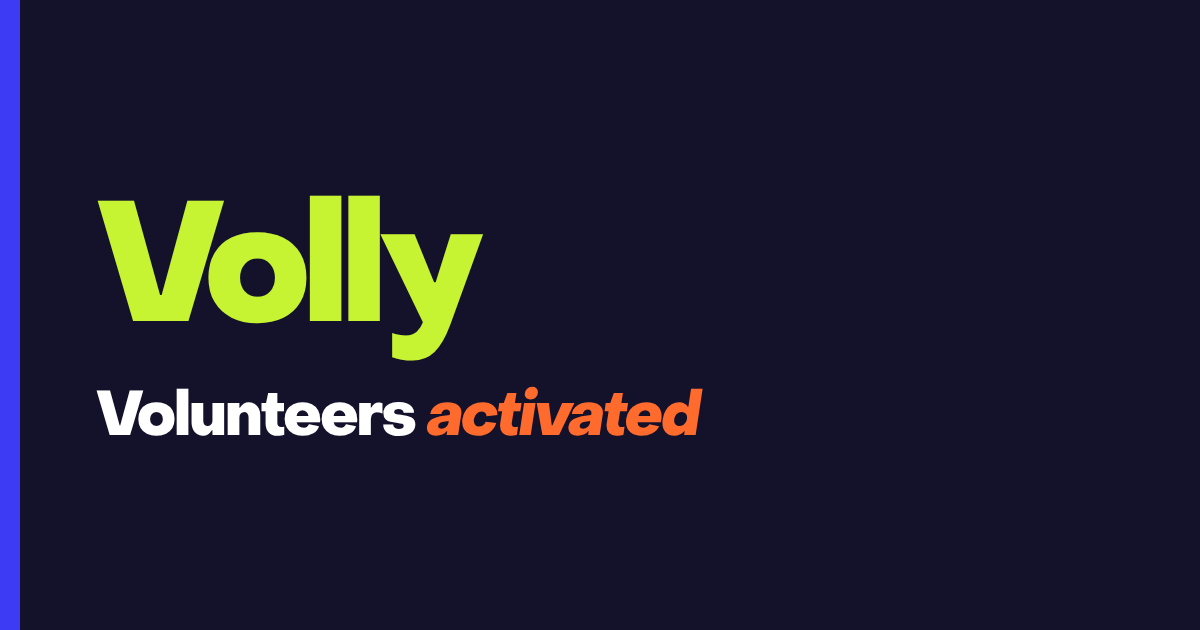
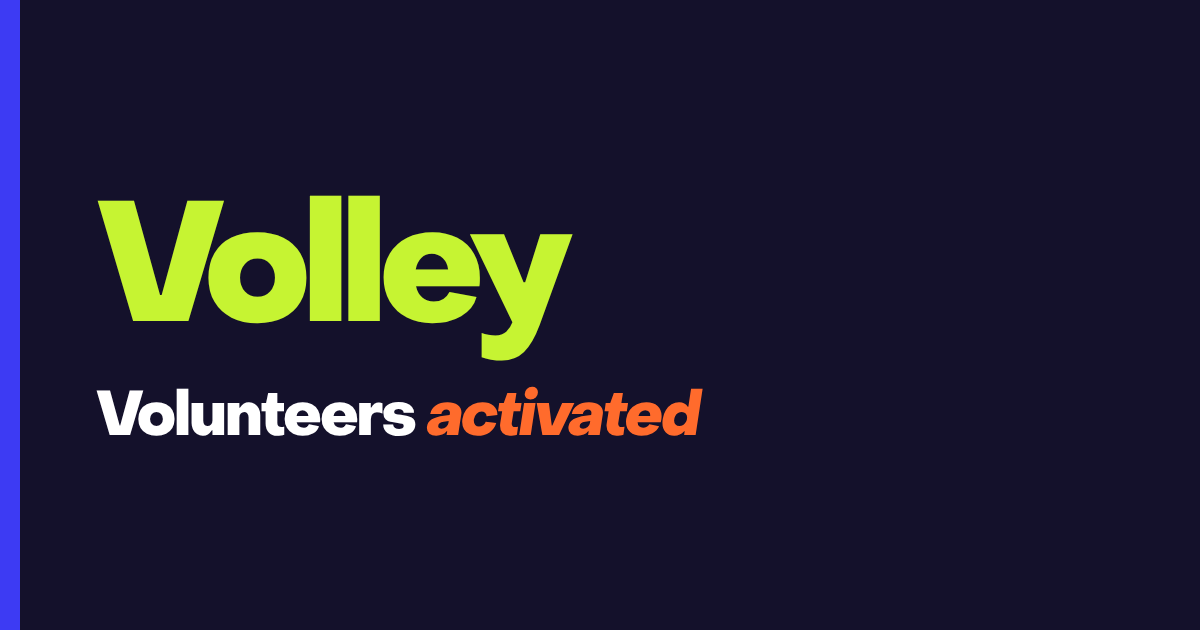
Call it Volley
The wordmark is regenerated from the font outlines for the new spelling.
The page title, OpenGraph tags, card and favicon label follow.

Claude-Session: https://claude.ai/code/session_0177AJ9icjv2svVrS4vRGTQ8

Changed region(s): [[0.3083, 0.3619, 0.4933, 0.573]]

diff --git a/src/web/Wordmark.tsx b/src/web/Wordmark.tsx
@@ -1,11 +1,11 @@
-// The Volly wordmark, drawn from PP Object Sans Heavy. Kept as outlines so it
+// The Volley wordmark, drawn from PP Object Sans Heavy. Kept as outlines so it
 // never waits on the font to load. Colour follows the surrounding text.
 // Regenerate with the same outlines in public/wordmark.svg.
 
 export function Wordmark({ height = 32 }: { height?: number }) {
   return (
-    <svg viewBox="10 -746 2374 981" height={height} role="img" aria-label="Volly" style={{ display: 'block' }}>
-      <path fill="currentColor" d="M550.0 0H221.0L10.0 -716H226.0L381.0 -155H391.0L544.0 -716H762.0Z M749.0 -258Q749.0 -342 784.5 -403.0Q820.0 -464 886.0 -496.5Q952.0 -529 1041.0 -529Q1129.0 -529 1195.0 -496.0Q1261.0 -463 1296.5 -402.0Q1332.0 -341 1332.0 -258Q1332.0 -174 1296.5 -113.0Q1261.0 -52 1195.0 -19.5Q1129.0 13 1041.0 13Q952.0 13 886.5 -20.0Q821.0 -53 785.0 -114.0Q749.0 -175 749.0 -258ZM1145.0 -258Q1145.0 -308 1116.0 -340.0Q1087.0 -372 1041.0 -372Q995.0 -372 966.0 -340.0Q937.0 -308 937.0 -258Q937.0 -208 966.0 -176.0Q995.0 -144 1041.0 -144Q1087.0 -144 1116.0 -176.0Q1145.0 -208 1145.0 -258Z M1540.0 0H1353.0V-746H1540.0Z M1770.0 0H1583.0V-746H1770.0Z M1843.0 216V71Q1859.0 78 1882.0 82.0Q1905.0 86 1925.0 86Q1965.0 86 1989.5 64.0Q2014.0 42 2026.0 8L1773.0 -516H1976.0L2092.0 -231H2102.0L2192.0 -516H2384.0L2188.0 24Q2147.0 134 2095.0 184.5Q2043.0 235 1963.0 235Q1933.0 235 1898.5 230.0Q1864.0 225 1843.0 216Z" />
+    <svg viewBox="10 -746 2947 981" height={height} role="img" aria-label="Volley" style={{ display: 'block' }}>
+      <path fill="currentColor" d="M550.0 0.0H221.0L10.0 -716.0H226.0L381.0 -155.0H391.0L544.0 -716.0H762.0ZM749.0 -258.0Q749.0 -342.0 784.5 -403.0Q820.0 -464.0 886.0 -496.5Q952.0 -529.0 1041.0 -529.0Q1129.0 -529.0 1195.0 -496.0Q1261.0 -463.0 1296.5 -402.0Q1332.0 -341.0 1332.0 -258.0Q1332.0 -174.0 1296.5 -113.0Q1261.0 -52.0 1195.0 -19.5Q1129.0 13.0 1041.0 13.0Q952.0 13.0 886.5 -20.0Q821.0 -53.0 785.0 -114.0Q749.0 -175.0 749.0 -258.0ZM1145.0 -258.0Q1145.0 -308.0 1116.0 -340.0Q1087.0 -372.0 1041.0 -372.0Q995.0 -372.0 966.0 -340.0Q937.0 -308.0 937.0 -258.0Q937.0 -208.0 966.0 -176.0Q995.0 -144.0 1041.0 -144.0Q1087.0 -144.0 1116.0 -176.0Q1145.0 -208.0 1145.0 -258.0ZM1540.0 0.0H1353.0V-746.0H1540.0ZM1770.0 0.0H1583.0V-746.0H1770.0ZM1792.0 -260.0Q1792.0 -341.0 1829.0 -402.0Q1866.0 -463.0 1932.0 -496.0Q1998.0 -529.0 2083.0 -529.0Q2167.0 -529.0 2231.0 -495.5Q2295.0 -462.0 2330.0 -401.0Q2365.0 -340.0 2365.0 -258.0Q2365.0 -222.0 2362.0 -207.0H1985.0Q1994.0 -164.0 2022.0 -140.0Q2050.0 -116.0 2091.0 -116.0Q2124.0 -116.0 2148.0 -131.0Q2172.0 -146.0 2184.0 -172.0L2345.0 -143.0Q2326.0 -71.0 2253.5 -29.0Q2181.0 13.0 2081.0 13.0Q1996.0 13.0 1930.5 -20.5Q1865.0 -54.0 1828.5 -116.0Q1792.0 -178.0 1792.0 -260.0ZM2176.0 -307.0Q2172.0 -346.0 2145.0 -373.0Q2118.0 -400.0 2079.0 -400.0Q2041.0 -400.0 2016.0 -375.0Q1991.0 -350.0 1983.0 -307.0ZM2416.0 216.0V71.0Q2432.0 78.0 2455.0 82.0Q2478.0 86.0 2498.0 86.0Q2538.0 86.0 2562.5 64.0Q2587.0 42.0 2599.0 8.0L2346.0 -516.0H2549.0L2665.0 -231.0H2675.0L2765.0 -516.0H2957.0L2761.0 24.0Q2720.0 134.0 2668.0 184.5Q2616.0 235.0 2536.0 235.0Q2506.0 235.0 2471.5 230.0Q2437.0 225.0 2416.0 216.0Z" />
     </svg>
   );
 }

diff --git a/index.html b/index.html
@@ -5,23 +5,23 @@
     <meta name="viewport" content="width=device-width, initial-scale=1" />
     <meta name="referrer" content="no-referrer" />
     <meta name="theme-color" content="#14112B" />
-    <title>Volly</title>
+    <title>Volley</title>
     <meta name="description" content="Volunteers activated." />
 
-    <!-- Volly is a codename. The absolute addresses below point at the demo and
+    <!-- Volley is a codename. The absolute addresses below point at the demo and
          must change with the domain: OpenGraph needs absolute image URLs. -->
-    <meta property="og:site_name" content="Volly" />
+    <meta property="og:site_name" content="Volley" />
     <meta property="og:type" content="website" />
-    <meta property="og:title" content="Volly" />
+    <meta property="og:title" content="Volley" />
     <meta property="og:description" content="Volunteers activated." />
     <meta property="og:url" content="https://voluntold-demo.square-dawn-9932.workers.dev/" />
     <meta property="og:image" content="https://voluntold-demo.square-dawn-9932.workers.dev/og.png" />
     <meta property="og:image:type" content="image/png" />
     <meta property="og:image:width" content="1200" />
     <meta property="og:image:height" content="630" />
-    <meta property="og:image:alt" content="Volly, in lime on a dark ground, above the words Volunteers activated." />
+    <meta property="og:image:alt" content="Volley, in lime on a dark ground, above the words Volunteers activated." />
     <meta name="twitter:card" content="summary_large_image" />
-    <meta name="twitter:title" content="Volly" />
+    <meta name="twitter:title" content="Volley" />
     <meta name="twitter:description" content="Volunteers activated." />
     <meta name="twitter:image" content="https://voluntold-demo.square-dawn-9932.workers.dev/og.png" />
 

diff --git a/scripts/og-card.html b/scripts/og-card.html
@@ -23,7 +23,7 @@
 <body>
   <div class="card">
     <div class="rule"></div>
-    <div class="mark">Volly</div>
+    <div class="mark">Volley</div>
     <p class="tag">Volunteers <em>activated</em></p>
   </div>
 </body>

diff --git a/docs/aar-home-page-and-demo-2026-10-29.md b/docs/aar-home-page-and-demo-2026-10-29.md
@@ -28,8 +28,9 @@
 4. Found two overlaps in the screenshots and fixed them: the tour card sat under the Urgent ask button on phones, and over it on desktop. The card now sits above other controls on phones and at the bottom left of the content on desktop.
 5. Exempted the home page and the tour from the no-sentences screen rule in `scripts/check-docs.mjs`. Both are prose by design.
 6. Ran the app locally and took screenshots: the home page at desktop and phone width, the first screen for a new person, each stop on a phone, the volunteer page opened from the tour, and two stops on desktop.
+7. The owner then said the tool is called Volley, not Volly. Renamed it everywhere outside the historical records: the page title and OpenGraph tags, the card and its image, the favicon's label, and the wordmark. The wordmark is outlines, so the agent installed fonttools, pulled the glyphs for "Volley" from PP Object Sans Heavy, and derived the tracking from the old mark (minus 45 units, the same minus 0.045em the card uses). The V outline came out identical to the old one, which confirmed the method. The favicon's V is unchanged.
 
-**What it produced or changed:** `src/web/pages/Home.tsx`, `DemoTour.tsx`, `Start.tsx`, `App.tsx`, `OrgShell.tsx`, `Login.tsx`, `public/screens/*`, `migrations/0004_sample_orgs.sql`, `src/worker/index.ts`, `db.ts`, `sample.ts`, `routes/org.ts`, `routes/tasks.ts`, `scripts/check-docs.mjs`, `README.md`, and this record.
+**What it produced or changed:** `src/web/pages/Home.tsx`, `DemoTour.tsx`, `Start.tsx`, `App.tsx`, `OrgShell.tsx`, `Login.tsx`, `Wordmark.tsx`, `public/screens/*`, `public/wordmark.svg`, `public/favicon.svg`, `public/og.png`, `index.html`, `scripts/og-card.html`, `migrations/0004_sample_orgs.sql`, `src/worker/index.ts`, `db.ts`, `sample.ts`, `routes/org.ts`, `routes/tasks.ts`, `scripts/check-docs.mjs`, `README.md`, and this record.
 **Where actual behavior differed from the instruction:** The first attempt was built on stale code and shown to the owner. It cost a round.
 **Stayed within granted authority?** Yes.
 
